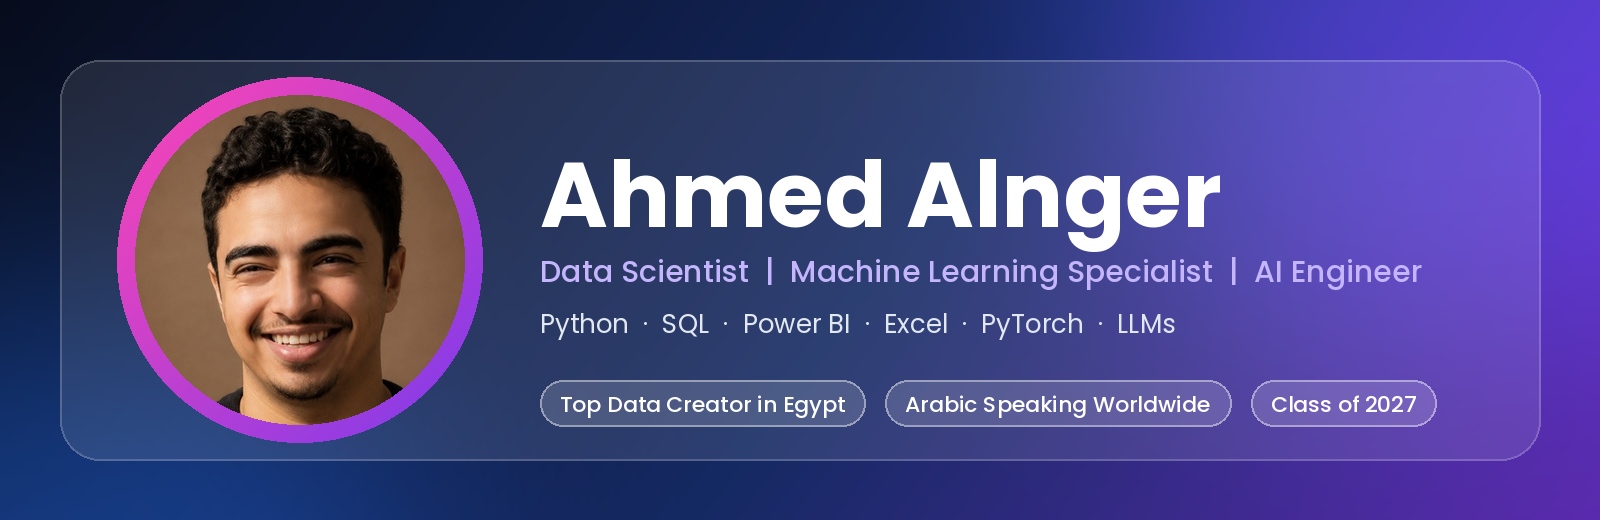
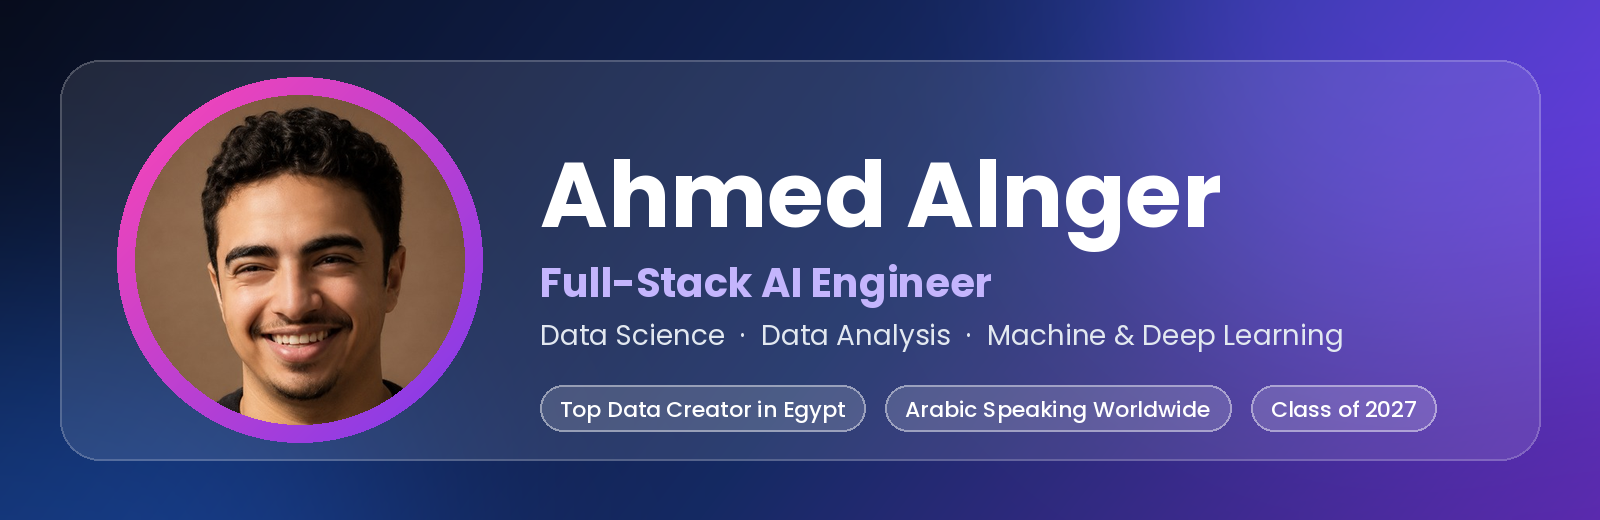
Update README: new title, add scikit-learn, remove XAI and researcher wording
Claude-Session: https://claude.ai/code/session_011tHqEAaRd9JaNpoLYfHPtg

Changed region(s): [[0.3438, 0.4923, 0.9062, 0.6769], [0.3438, 0.7077, 0.9062, 0.8308]]

diff --git a/README.md b/README.md
@@ -4,7 +4,7 @@
 
 ### 🏆 Top Data Creator in Egypt &amp; Arabic Speaking Worldwide
 
-**Data Scientist · Machine Learning Specialist · Data Visualization (Power BI &amp; Excel) · Python &amp; SQL for Data Science**
+**Full-Stack AI Engineer · Data Science · Data Analysis · Machine &amp; Deep Learning**
 
 <p>
   <a href="https://www.linkedin.com/in/ahmed-alnger-a1333a320/"><img src="https://img.shields.io/badge/LinkedIn-0A66C2?style=for-the-badge&logo=linkedin&logoColor=white" alt="LinkedIn"/></a>
@@ -19,13 +19,13 @@
 
 ## 👨💻 About Me
 
-I'm a **Full-Stack AI Engineer** who loves turning raw data into decisions and models into real products. I work across the whole pipeline: **data analysis → machine learning → deep learning → LLMs → deployment**.
+I'm a **Full-Stack AI Engineer** who loves turning raw data into decisions and models into real products. I work across the whole pipeline: **data analysis → data science → machine learning → deep learning → deployment**.
 
 - 🎓 Final-year **Information Systems** student at **Shorouk Academy**, graduating in **2027**
-- 🧠 Specializing in **Machine Learning**, with a focus on end-to-end ML pipelines, Deep Learning, Explainable AI (XAI), Privacy-Preserving Federated Learning, and LLM integration
+- 🧠 Specializing in **Machine Learning** and **Deep Learning**, with a focus on end-to-end ML pipelines, Privacy-Preserving Federated Learning, and LLM integration
 - 📊 Building interactive dashboards and data stories with **Power BI** and **Excel**
 - 🚀 Shipping models as working tools with **FastAPI**, **Streamlit**, and **ONNX Runtime**
-- 🔬 Researcher at heart, and a big fan of **space and astronomy** 🌌
+- 🌌 Passionate about **space and astronomy**
 - 🎙 Creating Data Science &amp; AI content and breaking down complex ideas for the Arab tech community
 
 <br/>
@@ -44,6 +44,7 @@ I'm a **Full-Stack AI Engineer** who loves turning raw data into decisions and m
 ### 🤖 Machine Learning
 
 <p>
+  <img src="https://img.shields.io/badge/Scikit--learn-F7931E?style=for-the-badge&logo=scikitlearn&logoColor=white" alt="Scikit-learn"/>
   <img src="https://img.shields.io/badge/Linear%20%26%20Logistic%20Regression-1E3A8A?style=flat-square" alt="Linear and Logistic Regression"/>
   <img src="https://img.shields.io/badge/Decision%20Trees-1E3A8A?style=flat-square" alt="Decision Trees"/>
   <img src="https://img.shields.io/badge/Random%20Forest-1E3A8A?style=flat-square" alt="Random Forest"/>
@@ -52,7 +53,6 @@ I'm a **Full-Stack AI Engineer** who loves turning raw data into decisions and m
   <img src="https://img.shields.io/badge/KNN-1E3A8A?style=flat-square" alt="KNN"/>
   <img src="https://img.shields.io/badge/K--Means-1E3A8A?style=flat-square" alt="K-Means"/>
   <img src="https://img.shields.io/badge/PCA-1E3A8A?style=flat-square" alt="PCA"/>
-  <img src="https://img.shields.io/badge/Explainable%20AI%20(XAI)-0F766E?style=flat-square" alt="XAI"/>
   <img src="https://img.shields.io/badge/Federated%20Learning-B45309?style=flat-square" alt="Federated Learning"/>
 </p>
 
@@ -119,7 +119,6 @@ I'm a **Full-Stack AI Engineer** who loves turning raw data into decisions and m
 
 ## 🔭 Interests
 
-- 🧪 Research in AI and Machine Learning
 - 🌌 Space and astronomy
 - 📚 Teaching and simplifying Data Science for the Arab community
 
